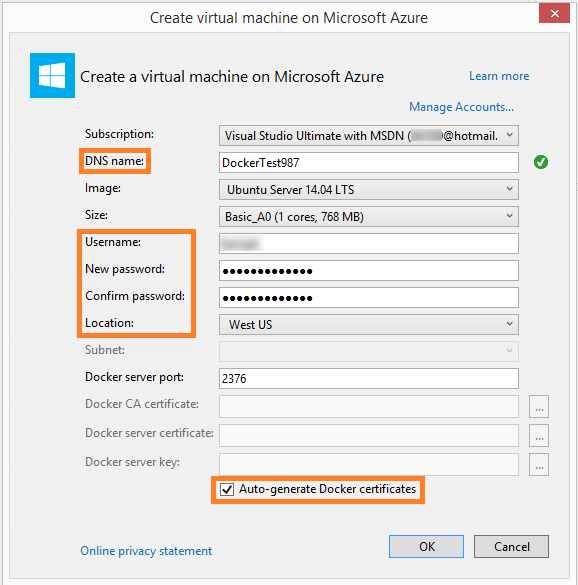
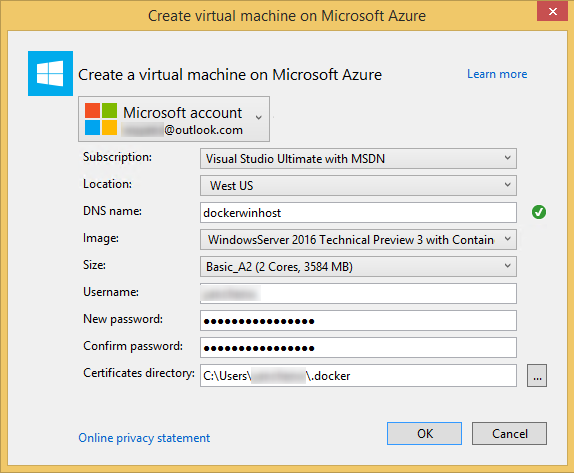
Update link to visual studio tools for docker.
Image with interface update. Parameters list updated.

Changed region(s): [[0.0, 0.0, 1.0, 1.0], [0.1185, 0.9175, 0.385, 0.9471], [0.6516, 0.9175, 0.6812, 0.9471]]

diff --git a/aspnet/publishing/docker.rst b/aspnet/publishing/docker.rst
@@ -3,7 +3,7 @@ Publish to a Docker Image
 
 `Docker <https://www.docker.com/whatisdocker/>`_ is a lightweight container engine, similar in some ways to a virtual machine, which you can use to host applications and services.
 
-This example shows you how to use the Visual Studio 2015 RC Tools for Docker extension to publish an ASP.NET 5 app to an Ubuntu Linux virtual machine (referred to here as a Docker host) on Azure with the Docker extension installed along with an ASP.NET 5 web application. You can publish the app to a new Docker host hosted on Azure, or to an on-premise server, Hyper-V, or Boot2Docker host by using the **Custom Host** setting. After publishing your app to a Docker host, you can use Docker command-line tools to interact with the container your app has been published to.
+This example shows you how to use the Visual Studio 2015 Tools for Docker extension to publish an ASP.NET 5 app to an Ubuntu Linux virtual machine (referred to here as a Docker host) on Azure with the Docker extension installed along with an ASP.NET 5 web application. You can publish the app to a new Docker host hosted on Azure, or to an on-premise server, Hyper-V, or Boot2Docker host by using the **Custom Host** setting. After publishing your app to a Docker host, you can use Docker command-line tools to interact with the container your app has been published to.
 
 Create and publish a new Docker container
 -----------------------------------------
@@ -27,7 +27,7 @@ Publish the project
 
 #. In the **Select a publish target** section of the **Publish Web** dialog box, choose the **Docker Containers** button.
 
-   If you don't see a Docker Containers option, make sure you have installed the `Visual Studio 2015 RC Tools for Docker <https://visualstudiogallery.msdn.microsoft.com/6f638067-027d-4817-bcc7-aa94163338f0>`_ and that you selected an ASP.NET 5 Web Site template in the previous step.
+   If you don't see a Docker Containers option, make sure you have installed the `Visual Studio 2015 Tools for Docker <https://visualstudiogallery.msdn.microsoft.com/0f5b2caa-ea00-41c8-b8a2-058c7da0b3e4>`_ and that you selected an ASP.NET 5 Web Site template in the previous step.
 
    .. image:: docker/_static/publish-dialog.png
    
@@ -59,7 +59,7 @@ Publish the project
    Username                           Enter a unique user name for the virtual machine.
    Password                           Enter a password for the local user and then confirm it.
    Location                           Change this setting to the region closest to your location.
-   Auto-generate Docker certificates  Check this box if you want certificates and keys to be automatically generated for you. Clear this box if you want to provide existing certificates and keys.
+   Certificates Directory             Enter Path to folder with keys. 
    =================================  ======= 
    
 #. After you choose **OK**, the virtual machine will begin to be created.
